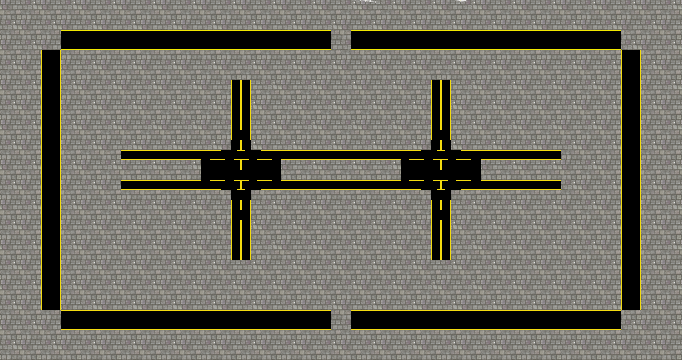
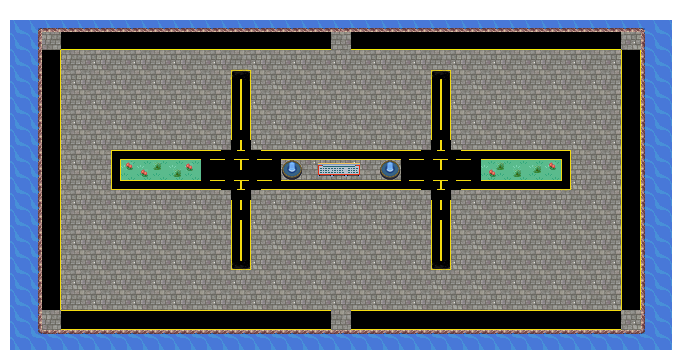
Upgraded World View

diff --git a/source/city/home/gui/ApartmentOccupantGui.java b/source/city/home/gui/ApartmentOccupantGui.java
@@ -144,13 +144,13 @@ public class ApartmentOccupantGui extends HomeOccupantGui {
 		switch(apartmentOccupantRole().apartmentNumber())
 		{
 		case 0:
-			return ApartmentAnimationPanel.TVY;
+			return ApartmentAnimationPanel.TVX;
 		case 1:
-			return ApartmentAnimationPanel.TVY2;
+			return ApartmentAnimationPanel.TVX2;
 		case 2:
-			return ApartmentAnimationPanel.TVY3;
+			return ApartmentAnimationPanel.TVX3;
 		case 3:
-			return ApartmentAnimationPanel.TVY4;
+			return ApartmentAnimationPanel.TVX4;
 		}
 		return 0;
 	}
@@ -160,13 +160,13 @@ public class ApartmentOccupantGui extends HomeOccupantGui {
 		switch(apartmentOccupantRole().apartmentNumber())
 		{
 		case 0:
-			return ApartmentAnimationPanel.FRONTDOORX;
+			return ApartmentAnimationPanel.TVY;
 		case 1:
-			return ApartmentAnimationPanel.FRONTDOORX2;
+			return ApartmentAnimationPanel.TVY2;
 		case 2:
-			return ApartmentAnimationPanel.FRONTDOORX3;
+			return ApartmentAnimationPanel.TVY3;
 		case 3:
-			return ApartmentAnimationPanel.FRONTDOORX4;
+			return ApartmentAnimationPanel.TVY4;
 		}
 		return 0;
 	}

diff --git a/source/gui/WorldView.java b/source/gui/WorldView.java
@@ -97,11 +97,6 @@ public class WorldView extends JPanel implements MouseListener, ActionListener
 		g2.setColor( Color.black );
 		
 		g2.drawImage(background, null,  null);
-		g2.drawRect(10, 20, 10, 10);
-		g.drawString("Bus Stop", 60, 40);
-		g.drawString("Bus Stop", 560, 40);
-		g.drawString("Bus Stop", 560, 340);
-		g.drawString("Bus Stop", 60, 340);
 		
 		for ( int i=0; i<buildings.size(); i++ ) {
 			WorldViewBuilding b = buildings.get(i);
@@ -110,17 +105,17 @@ public class WorldView extends JPanel implements MouseListener, ActionListener
 		
 		for ( int i=0; i<Directory.lanes().size(); i++ ) {
 			Lane l = Directory.lanes().get(i);
-			l.draw( g2 );
+//			l.draw( g2 );
 		}
 		
 		for ( int i=0; i<Directory.sidewalks().size(); i++ ) {
 			Lane l = Directory.sidewalks().get(i);
-			l.draw( g2 );
+//			l.draw( g2 );
 		}
 		
 		for ( int i=0; i<Directory.busSidewalks().size(); i++ ) {
 			Lane l = Directory.busSidewalks().get(i);
-			l.draw( g2 );
+//			l.draw( g2 );
 		}
 		
 		try

diff --git a/source/city/transportation/gui/BusAgentGui.java b/source/city/transportation/gui/BusAgentGui.java
@@ -157,16 +157,16 @@ public class BusAgentGui extends JPanel implements Gui {
 		if(isPresent){
 			g.setColor(Color.BLUE);
 			if(direction == BusDirection.BusDown){
-				g.drawImage(busDown, _xPos, _yPos, 16, 37, this);
+				g.drawImage(busDown, _xPos+2, _yPos, 16, 37, this);
 			}
 			else if(direction == BusDirection.BusUp){
-				g.drawImage(busUp, _xPos, _yPos, 16, 37, this);
+				g.drawImage(busUp, _xPos+2, _yPos, 16, 37, this);
 			}
 			else if(direction == BusDirection.BusRight){
-				g.drawImage(busRight, _xPos, _yPos, 36, 23, this);
+				g.drawImage(busRight, _xPos, _yPos-4, 36, 23, this);
 			}
 			else if(direction == BusDirection.BusLeft){
-				g.drawImage(busLeft, _xPos, _yPos, 37, 23, this);
+				g.drawImage(busLeft, _xPos, _yPos-4, 37, 23, this);
 			}
 			
 			if(_xPos == 20){

diff --git a/source/city/restaurant/yixin/gui/YixinCookGui.java b/source/city/restaurant/yixin/gui/YixinCookGui.java
@@ -15,7 +15,7 @@ import city.restaurant.yixin.YixinCookRole;
 public class YixinCookGui extends JPanel implements Gui{
 
 	private YixinCookRole agent;
-	private ImageIcon i = new ImageIcon(this.getClass().getResource("/image/cook.jpg"));
+	private ImageIcon i = new ImageIcon(this.getClass().getResource("/image/restaurant/Chef.png"));
 	private Image image = i.getImage();
 	private String food = "";
 	private boolean show_food = false;
